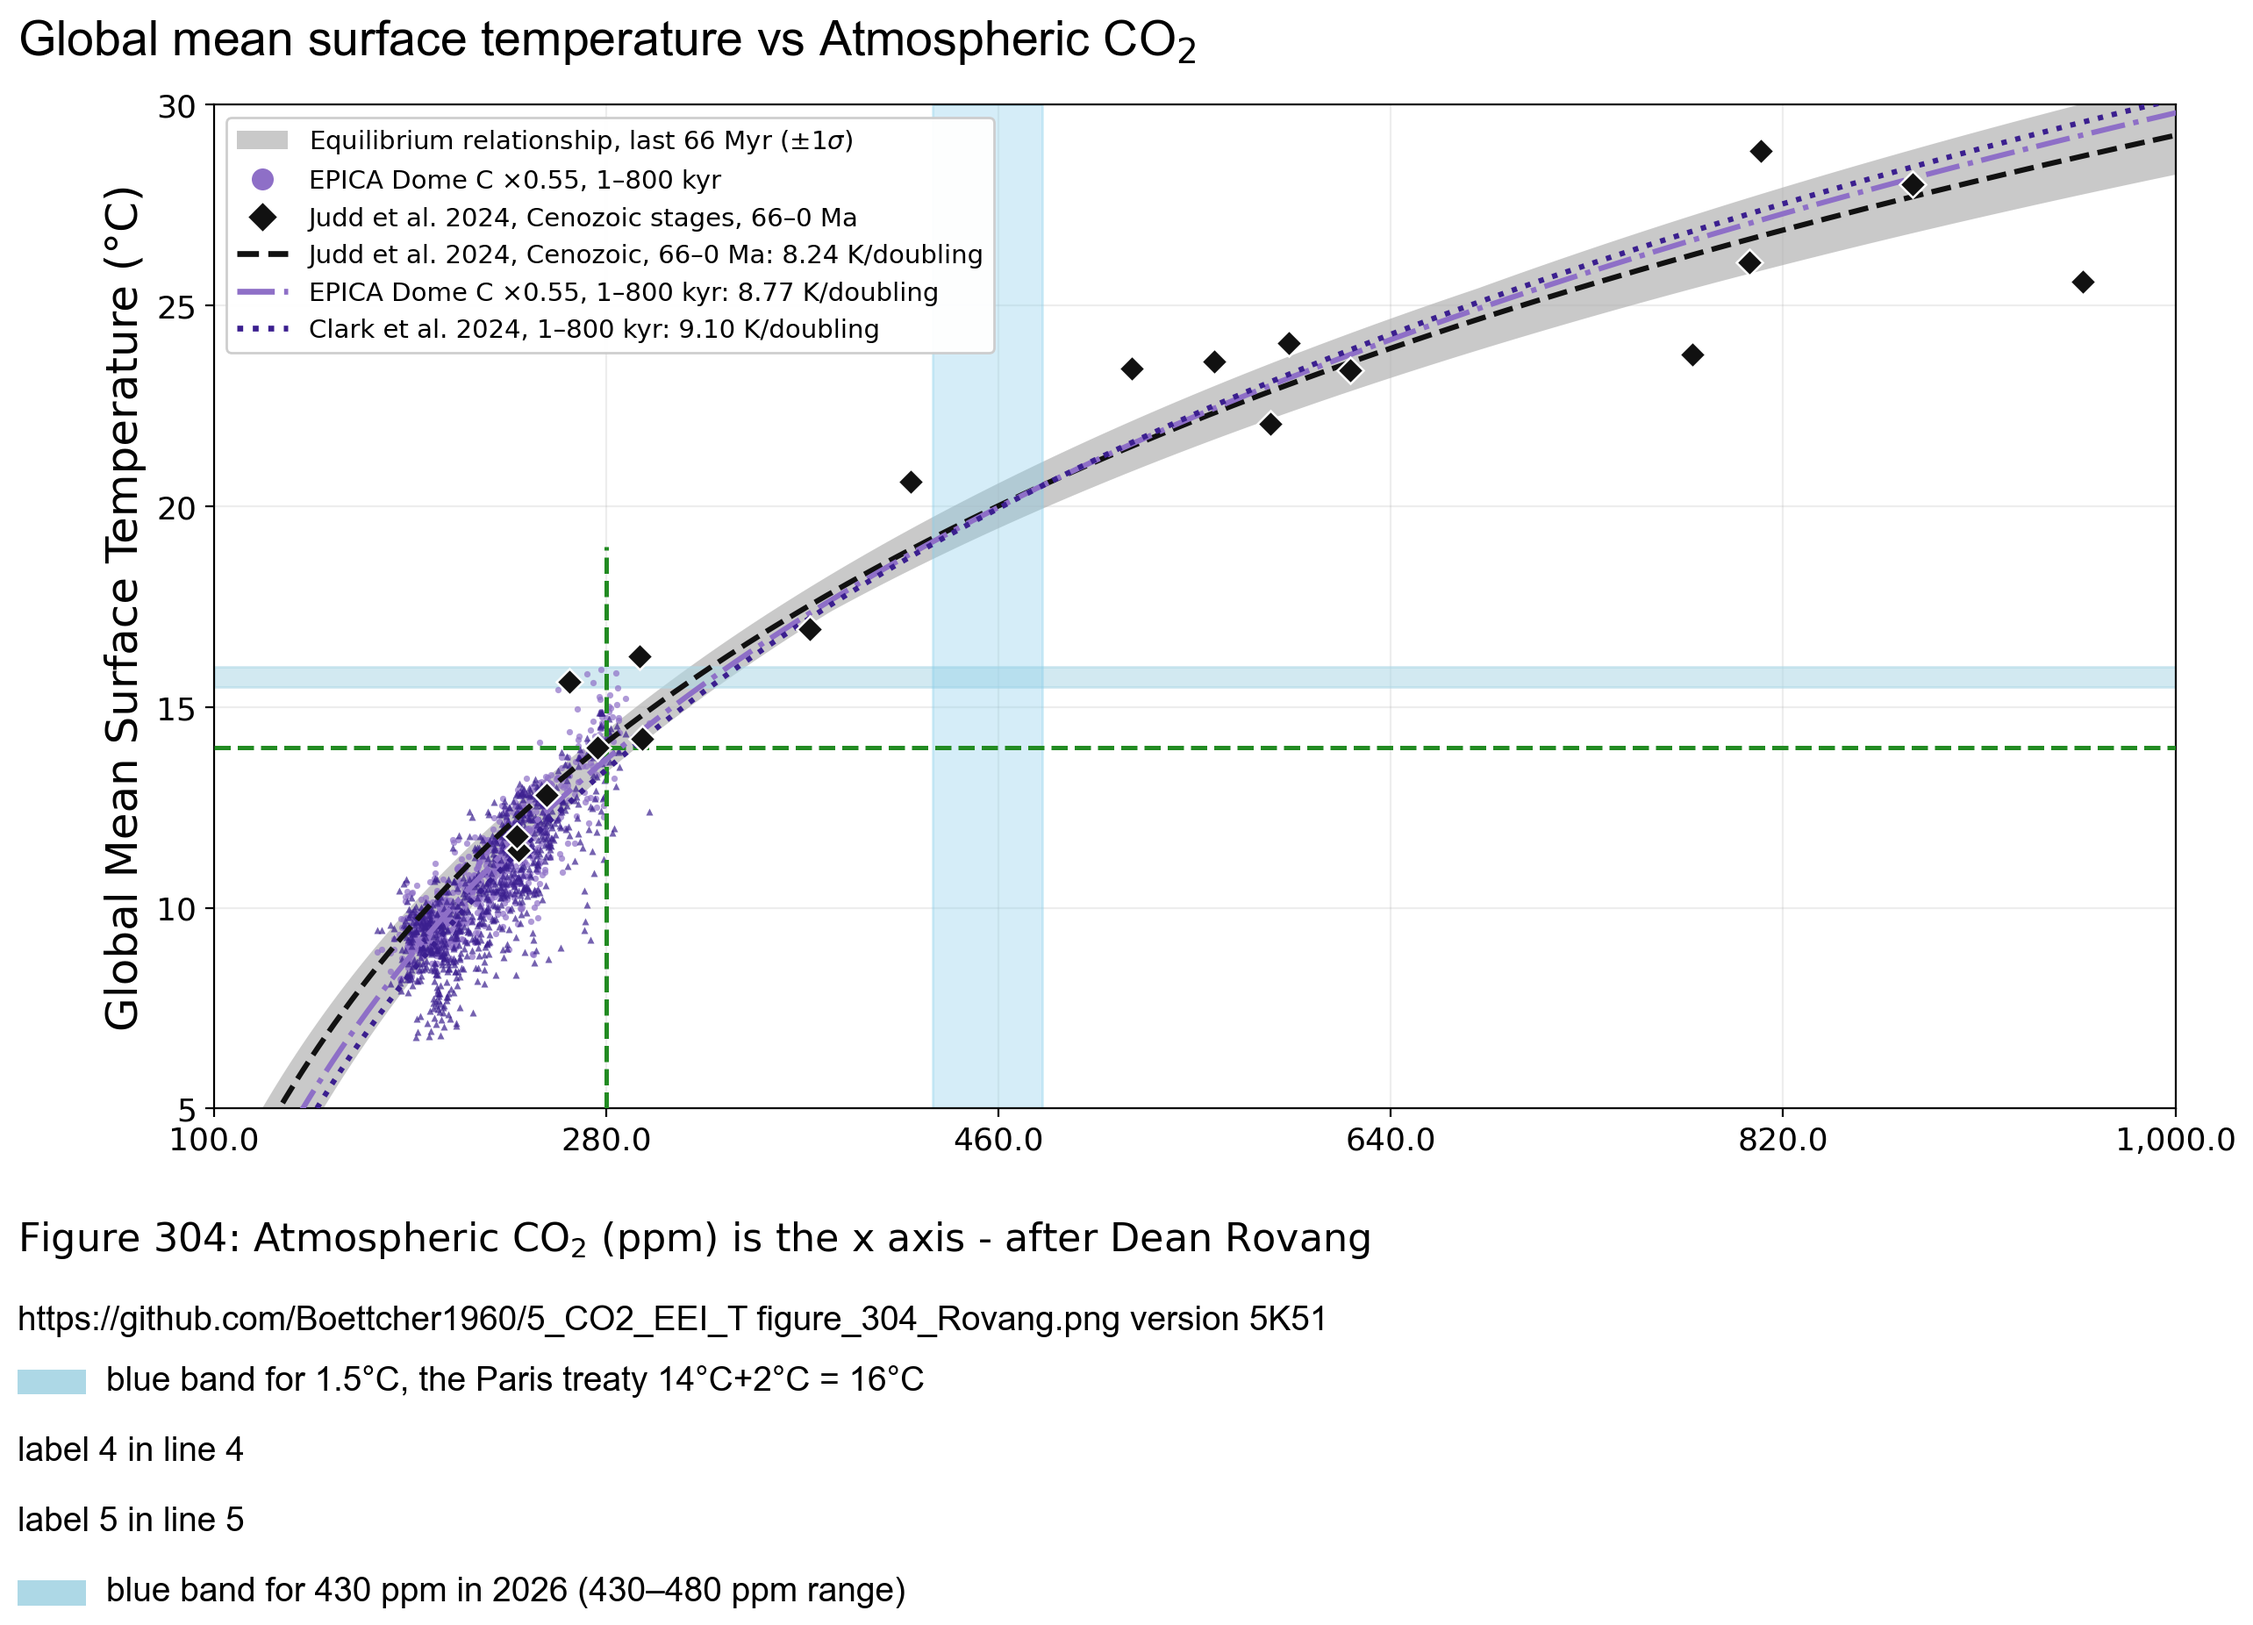
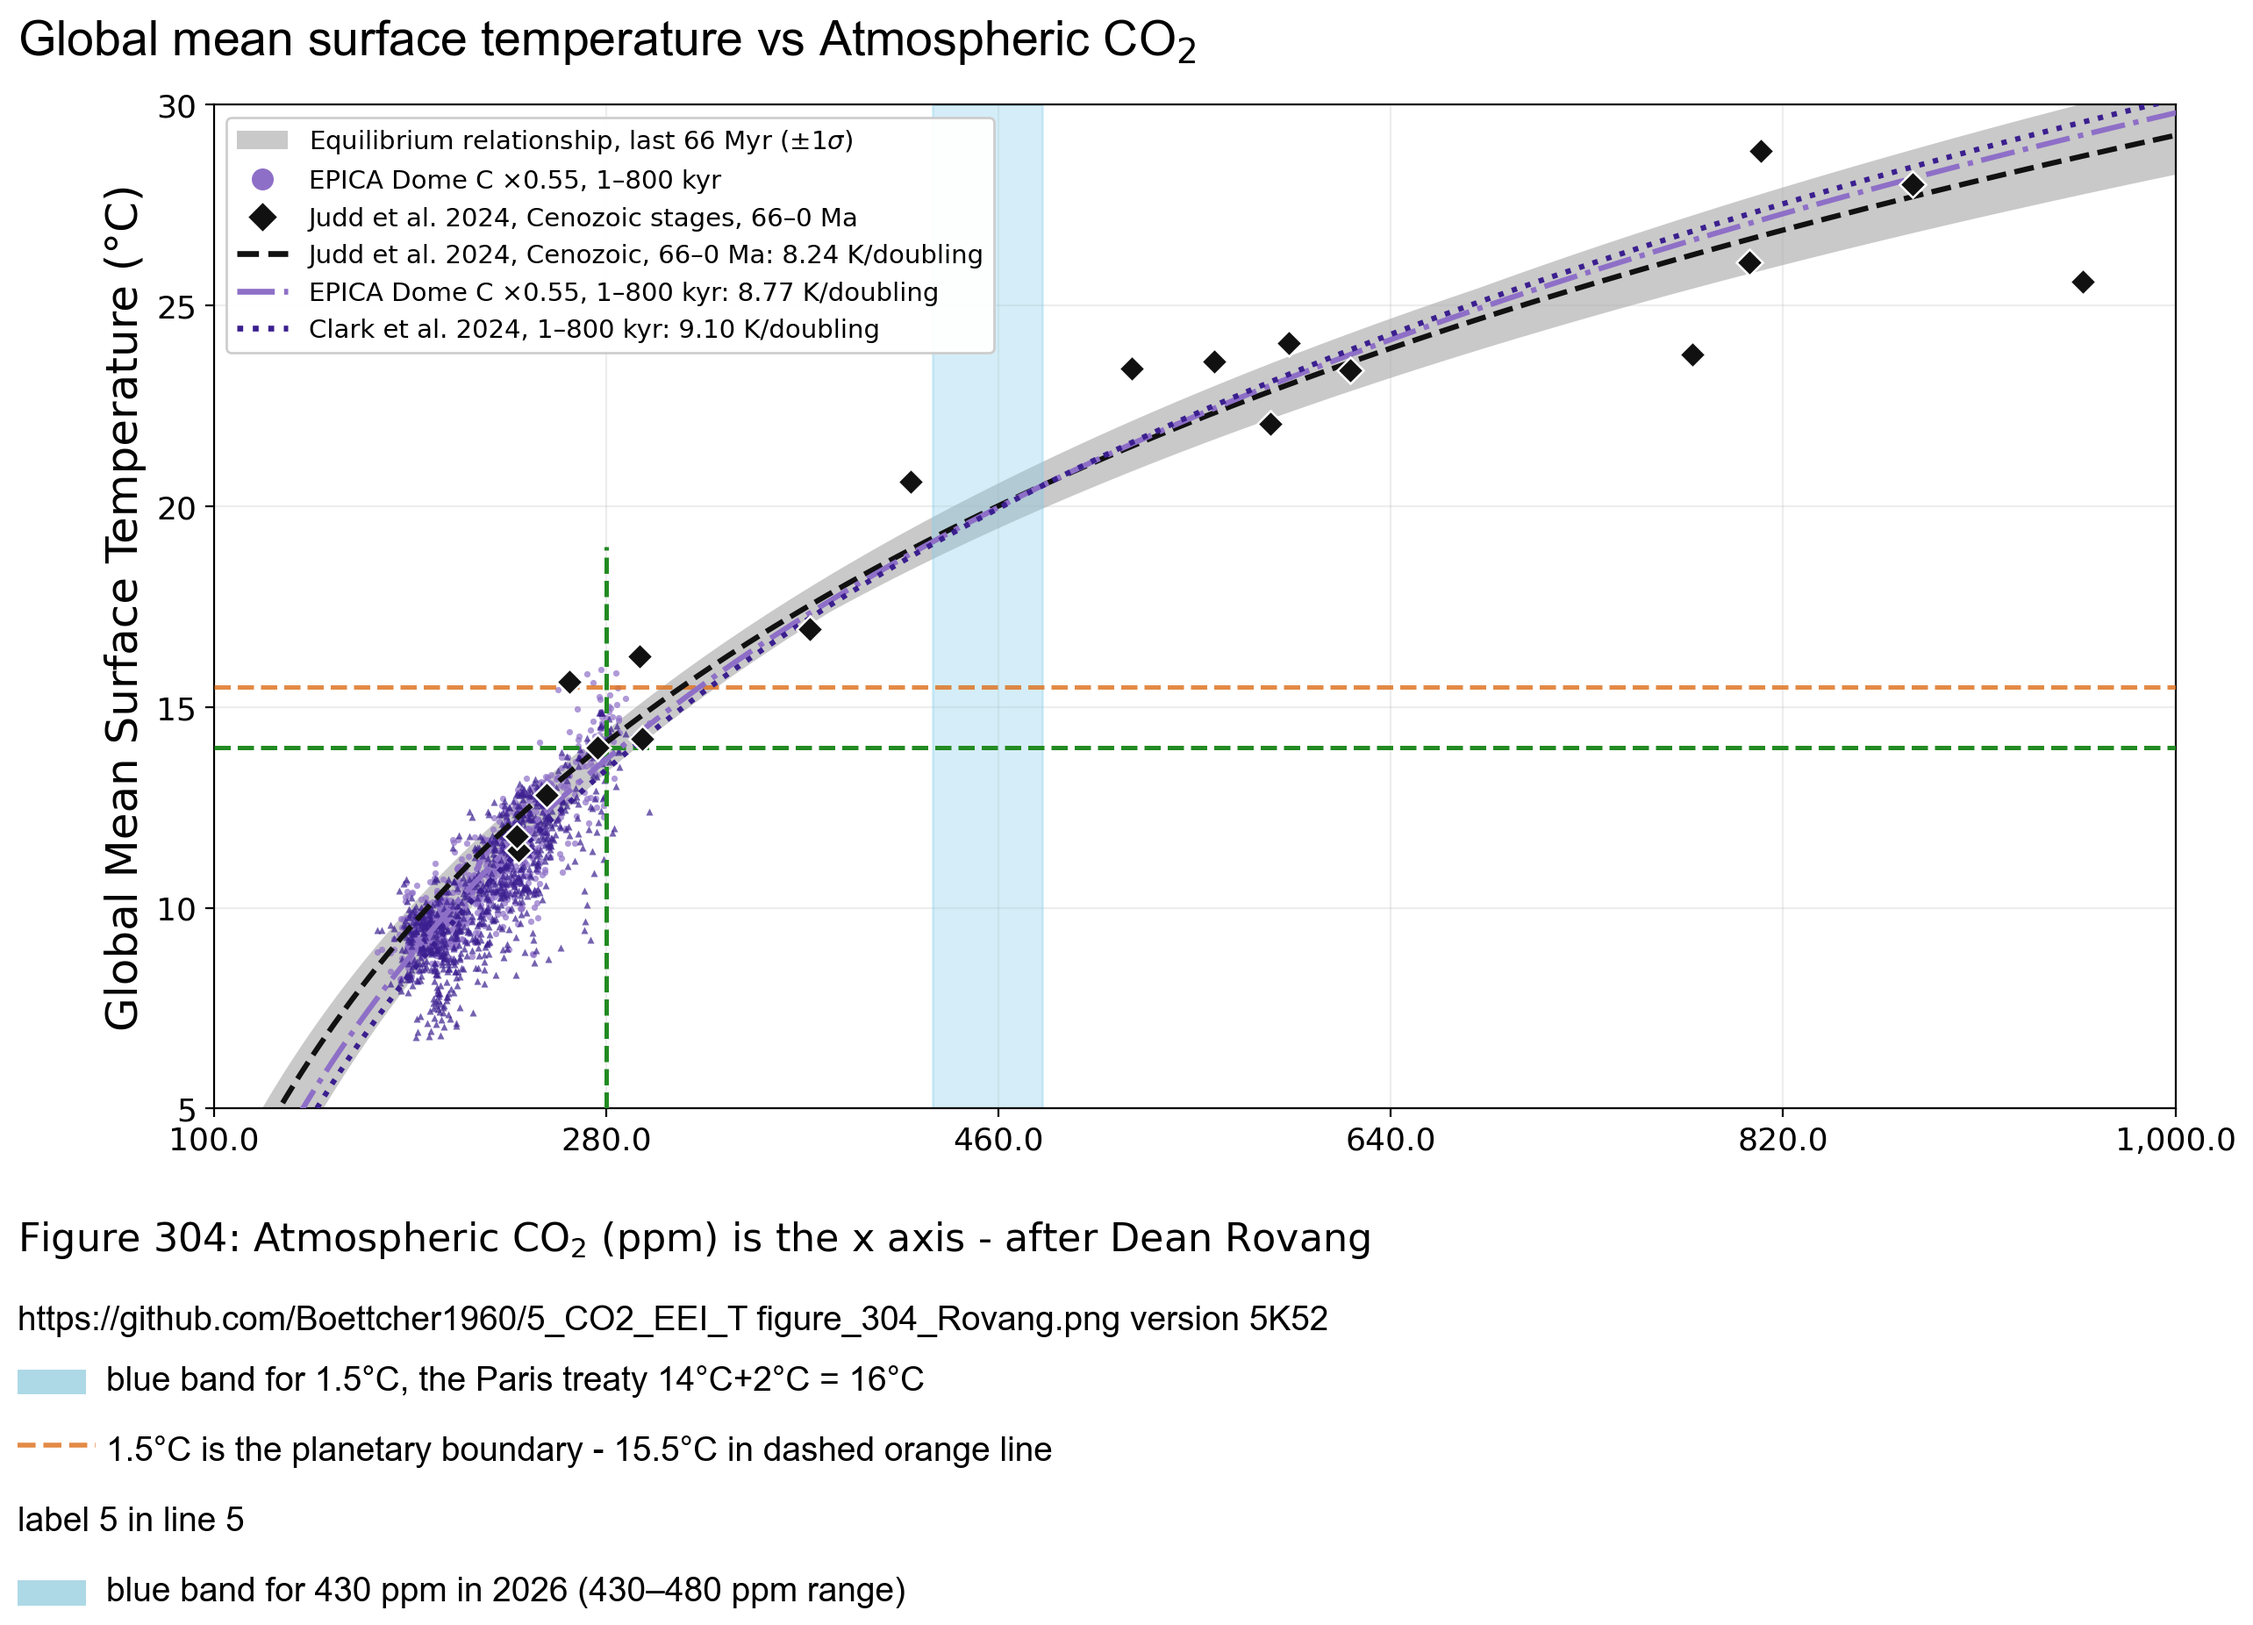
5K52

diff --git a/Rovang/Rovang_figure_303.py b/Rovang/Rovang_figure_303.py
@@ -145,42 +145,49 @@ def _create_figure(linear_x=False):
     # 303.63 set the y-axis tick labels to range from y_303min to y_303max with a step of 5
     figure_label = "4" if linear_x else "3"
     scale_label = "ppm" if linear_x else "ppm, log$_2$ scale"
-    # 303.80 print the headline above the plot
+    # 303.65 print the headline above the plot
     headline1 = "Global mean surface temperature vs Atmospheric CO$_2$"
     ax.text(
         -0.1, 1.05, headline1, color="black", fontname="Arial", fontsize=20,
         transform=ax.transAxes,
     )
-    # 303.82 print the x axis text below the plot
+    # 303.68 print the x axis text below the plot
     ax.set_xlabel(
         f"Figure 304: Atmospheric CO$_2$ ({scale_label}) is the x axis - after Dean Rovang ",
         fontsize=16,
         loc="left",
     )
-    # 303.83 move  the x axis text
+    # 303.69 move  the x axis text
     ax.xaxis.set_label_coords(-0.1, -0.11)
 
-    # 303.85 print the y axis text left of the plot
+    # 303.70 print the y axis text left of the plot
     ax.set_ylabel("Global Mean Surface Temperature (\u00b0C)", fontsize=18)
     ax.tick_params(axis="both", labelsize=13)
     ax.grid(True, alpha=0.22)
-   
-    # 303.96 blue band for 15.5°C the 2024 Temperature 
-    paris_band_color = "#add8e6"
-    ax.axhspan(15.5, 16, color=paris_band_color, alpha=0.55, zorder=2)
 
-    # 303.97 blue band for 430 ppm the 2026 CO2 atmosphere level
-    co2_band_color = "#87ceeb"
-    ax.axvspan(430, 480, color=co2_band_color, alpha=0.35, zorder=2)
+    # 303.80 lines parallel to x axis
+    # 303.80 green dashed line for 14°C the 1850 to 1900 Temperaturelevel
     reference_color = "#228B22"
-
-    # 303.99 green dashed line for 14°C the 1850 to 1900 Temperaturelevel
     ax.axhline(14, color=reference_color, ls="--", lw=1.8, zorder=6)
+    # 303.82 blue band for 15.5°C the 2024 Temperature
+    paris_band_color = "#add8e6"
+    # ax.axhspan(15.5, 16, color=paris_band_color, alpha=0.55, zorder=2)
+    # 303.84 orange dashed line for 15.5°C the 2024 Temperaturelevel 1.5°C above preindustrial 14°C
+    c305 = "#DE7525D8"
+    ax.axhline(15.5, color=c305, ls="--", lw=1.8, zorder=6)
 
-    # 303.100 green dashed line for 280 ppm the 1850 to 1900 CO2 atmosphere level
+    # 303.90 lines parallel to y axis
+    # 303.90 blue band for 430 ppm the 2026 CO2 atmosphere level
+    c306 = "#87ceeb"
+    ax.axvspan(430, 480, color=c306, alpha=0.35, zorder=2)
+
+    # 303.82 green dashed line for 280 ppm the 1850 to 1900 CO2 atmosphere level
     ax.plot([280, 280], [5, 19], color=reference_color, ls="--", lw=1.8, zorder=6)
 
-     # 303.101 legend with the 3 fits and the 4 bands
+
+
+
+    # 303.101 legend with the 3 fits and the 4 bands
     handles = [
         Patch(facecolor=GRAY, alpha=0.75,
               label="Equilibrium relationship, last 66 Myr ($\\pm1\\sigma$)"),
@@ -239,9 +246,13 @@ def _create_figure(linear_x=False):
     fig.subplots_adjust(left=0.12, right=0.98, top=0.92, bottom=0.40)
     
     t3y4 = -0.35    # 303.124 print line 6 
-    label4="label 4 in line 4"
+    label4 = "1.5°C is the planetary boundary - 15.5°C in dashed orange line"
+    ax.plot(
+        [-0.1, -0.06], [t3y4 + 0.015, t3y4 + 0.015], color=c305, ls="--", lw=2,
+        transform=ax.transAxes, clip_on=False,
+    )
     # 303.135 print line 3 below the plot
-    ax.text(-0.1, t3y4, label4, color="black", fontname="Arial", fontsize=14,
+    ax.text(-0.055, t3y4, label4, color="black", fontname="Arial", fontsize=14,
             transform=ax.transAxes)
 
     t3y5 = -0.42    # 303.124 print line 6 

diff --git a/main.py b/main.py
@@ -1,5 +1,5 @@
 # main.py
-v = "5K51" # make 4 text lines below the plot like in text_9_print_7_lines():
+v = "5K52" # make 4 text lines below the plot like in text_9_print_7_lines():
 # https://github.com/Boettcher1960/5_CO2_EEI_T
 # ocean stratification https://bsky.app/profile/thomas-boettcher.bsky.social/post/3mj7zx7fzsc26
 # https://drtomharris.substack.com/p/the-great-decoupling-how-ocean-stratification
